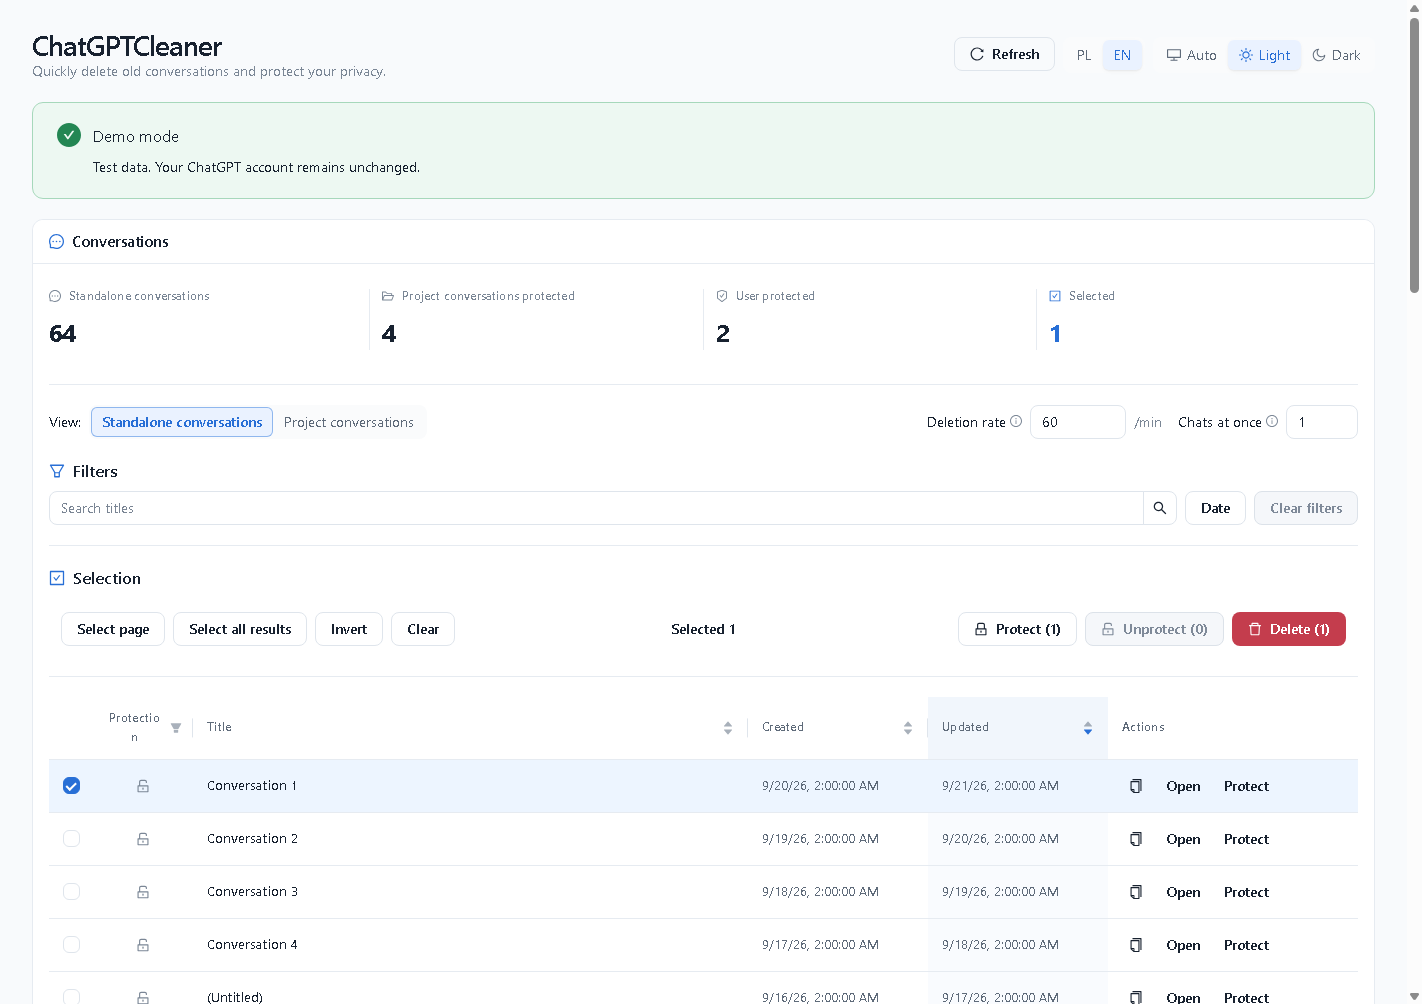
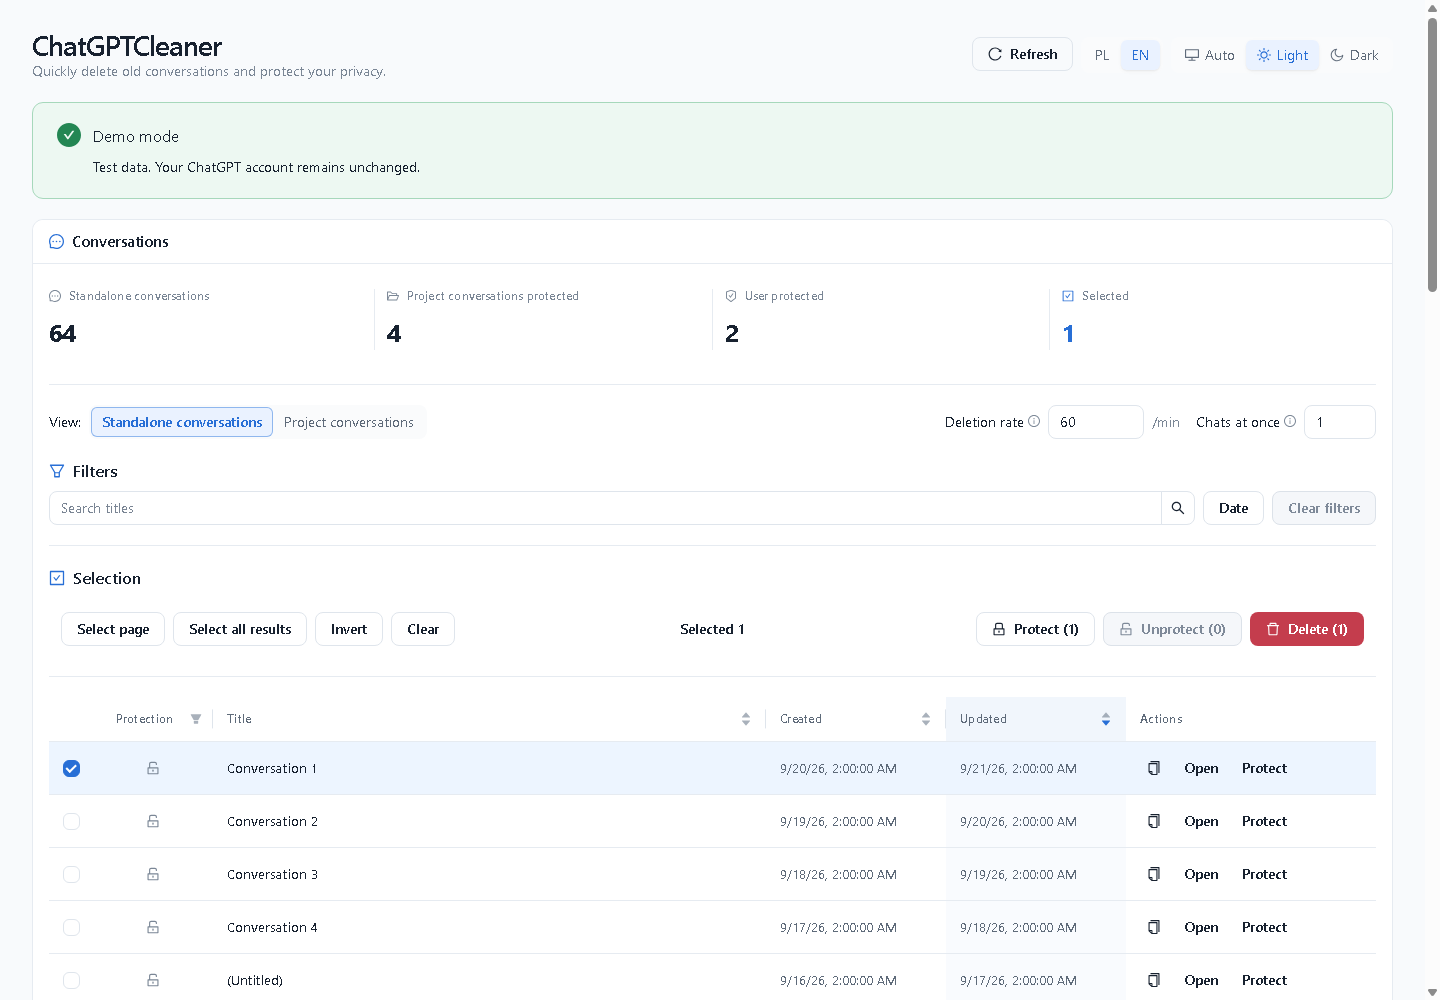
fix(ui): widen Protection column and update README screenshot

diff --git a/src/ui/ManagerPage/ConversationTable/hooks/useConversationTableColumns.tsx b/src/ui/ManagerPage/ConversationTable/hooks/useConversationTableColumns.tsx
@@ -43,7 +43,7 @@ export function useConversationTableColumns(
       {
         title: t("table.protectionStatus"),
         key: "protection",
-        width: 100,
+        width: 120,
         align: "center",
         ...(view === "standalone"
           ? {
